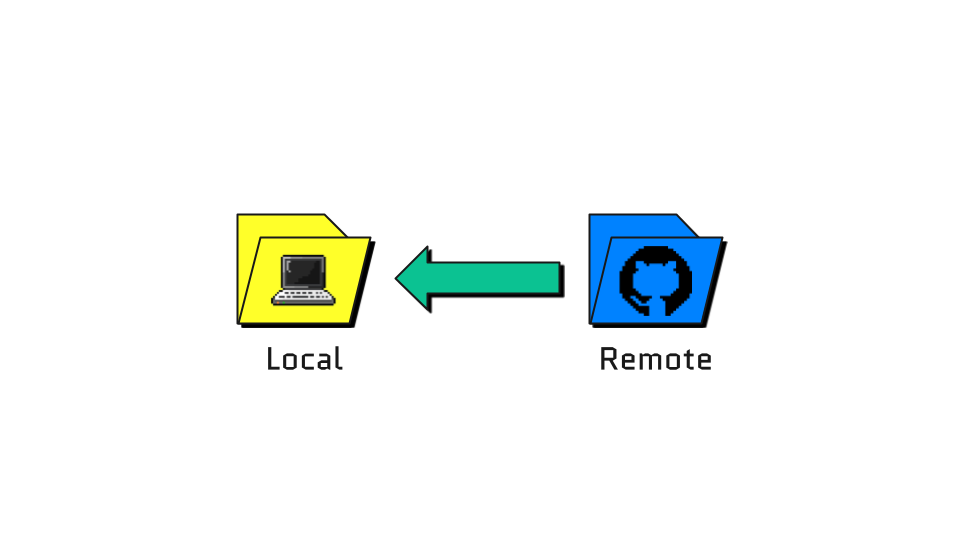
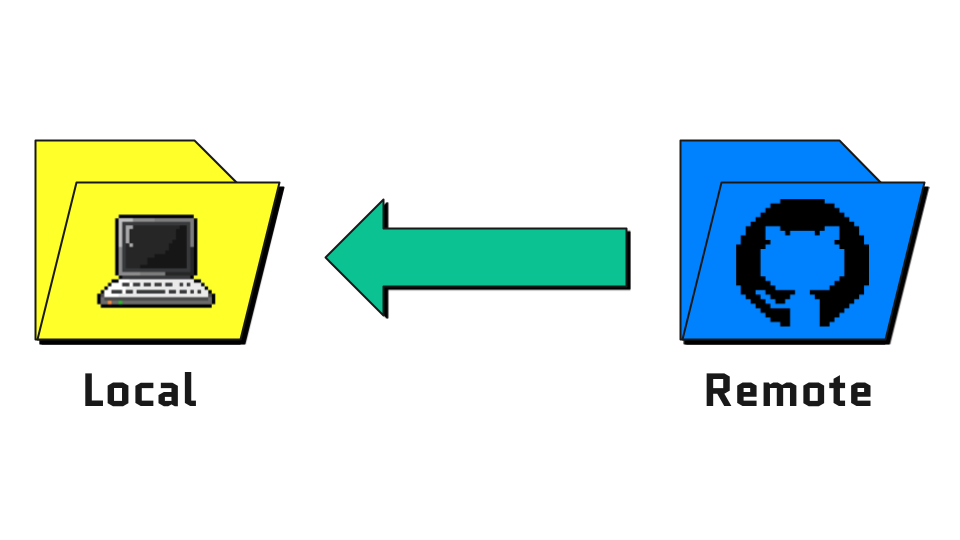
[DOCS] improve cheatsheet images

Changed region(s): [[0.0312, 0.237, 0.9688, 0.7704], [0.0625, 0.6815, 0.2188, 0.7704], [0.2812, 0.6519, 0.375, 0.6815]]

diff --git a/README.md b/README.md
@@ -24,16 +24,16 @@ M2 Technologies Numériques Appliquées à l'Histoire à l'École des chartes.
 | Illustration                      | Commande                                                    | Description                                                                                                                   |
 |-----------------------------------|-------------------------------------------------------------|-------------------------------------------------------------------------------------------------------------------------------|
 | <img src="images/init.png">       | `git init`                                                  | Initialiser un repository                                                                                                     |
-| <img src="images/add.png">        | `git add <filename>`<br>`git add -A`                        | Ajouter un fichier à la _staging area_<br>Ajouter tous les fichiers modifiés                                                  |
+| <img src="images/add.png">        | `git add <filename>`<hr>`git add -A`                        | Ajouter un fichier à la _staging area_<hr>Ajouter tous les fichiers modifiés                                                  |
 | <img src="images/commit.png">     | `git commit -m "<message>"`                                 | Valider les modifications avec un message                                                                                     |
-| <img src="images/branch.png">     | `git branch`<br>`git branch <branch-name>`                  | Lister les branches du repository<br>Créer une nouvelle branche "branch-name"                                                 |
-| <img src="images/switch.png">     | `git switch <branch-name>`<br>`git switch -c <branch-name>` | Basculer sur la branche "branch-name"<br>Créer une nouvelle branche et s'y déplacer                                           |
+| <img src="images/branch.png">     | `git branch`<hr>`git branch <branch-name>`                  | Lister les branches du repository<hr>Créer une nouvelle branche "branch-name"                                                 |
+| <img src="images/switch.png">     | `git switch <branch-name>`<hr>`git switch -c <branch-name>` | Basculer sur la branche "branch-name"<hr>Créer une nouvelle branche et s'y déplacer                                           |
 | <img src="images/merge.png">      | `git merge <branch-name>`                                   | Fusionner la branche "branch-name" dans la branche courante                                                                   |
 | <img src="images/rebase.png">     | `git rebase <branch-name>`                                  | Réécrire les commits de la branche "branch-name" sur la branche courante (⚠ toujours sur une branche où on travaille seul·e) |
 | <img src="images/push.png">       | `git push`                                                  | Envoyer les commits sur le _remote repository_                                                                                |
-| <img src="images/pull.png">       | `git pull`<br>`git fetch`                                   | Récupérer les modifications du _remote repository_<br>Récupérer les modifications sans les fusionner                          |
+| <img src="images/pull.png">       | `git pull`<hr>`git fetch`                                   | Récupérer les modifications du _remote repository_<hr>Récupérer les modifications sans les fusionner                          |
 | <img src="images/clone.png">      | `git clone <url>`                                           | Cloner un _repository_ distant en local                                                                                       |
-| <img src="images/add-remote.png"> | `git remote add <repository-url>`                           | Lier son _repository_ local à un remote                                                                                       |
+| <img src="images/add-remote.png"> | `git remote add <repo-url>`                                 | Lier son _repository_ local à un remote                                                                                       |
 | <img src="images/log.png">        | `git log`                                                   | Afficher l'historique des commits                                                                                             |
 |                                   | `git status`                                                | Lister les fichiers modifiés/indexés                                                                                          |
 |                                   | `git diff`                                                  | Afficher le contenu des différences entre le dernier commit et les fichiers modifiés depuis                                   |
